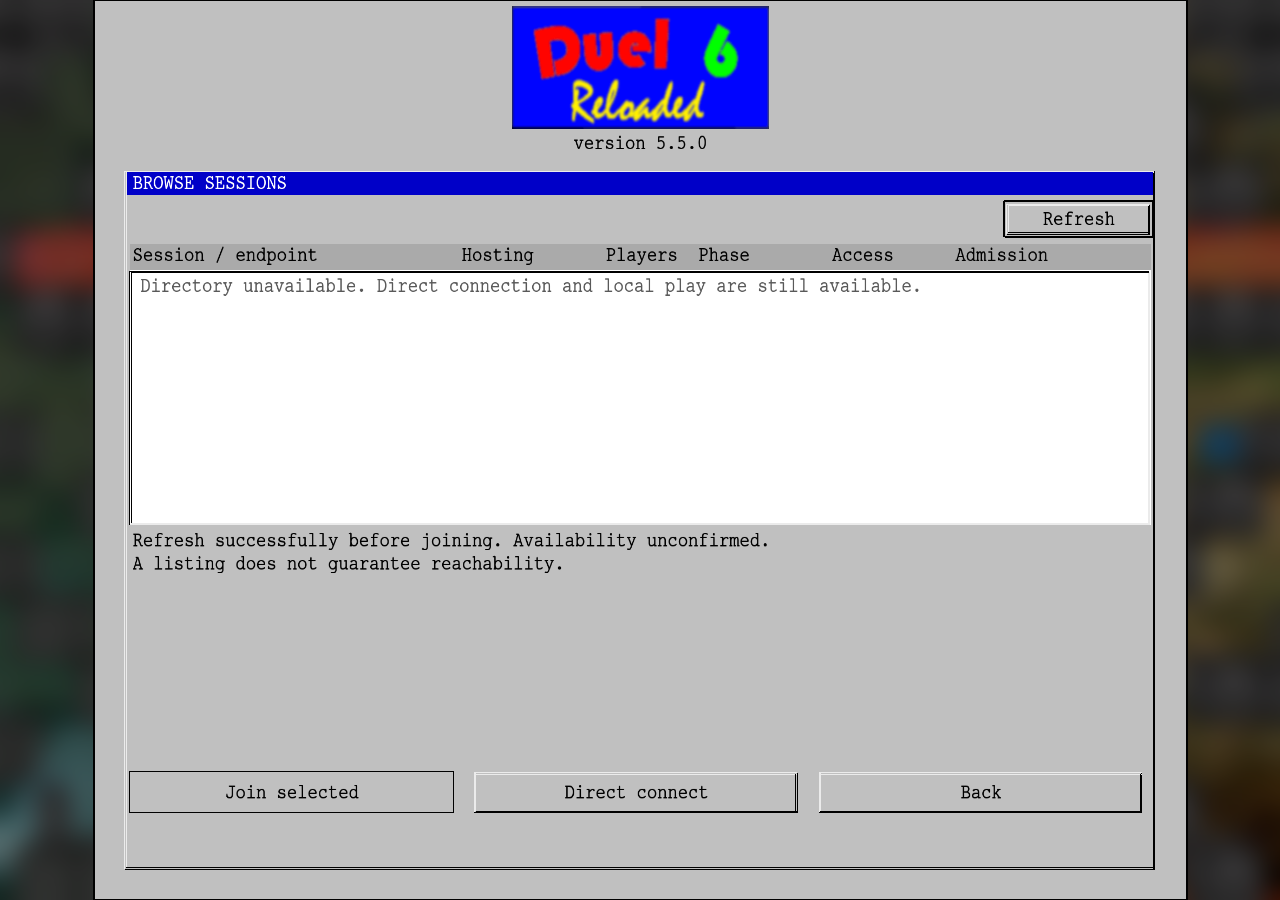
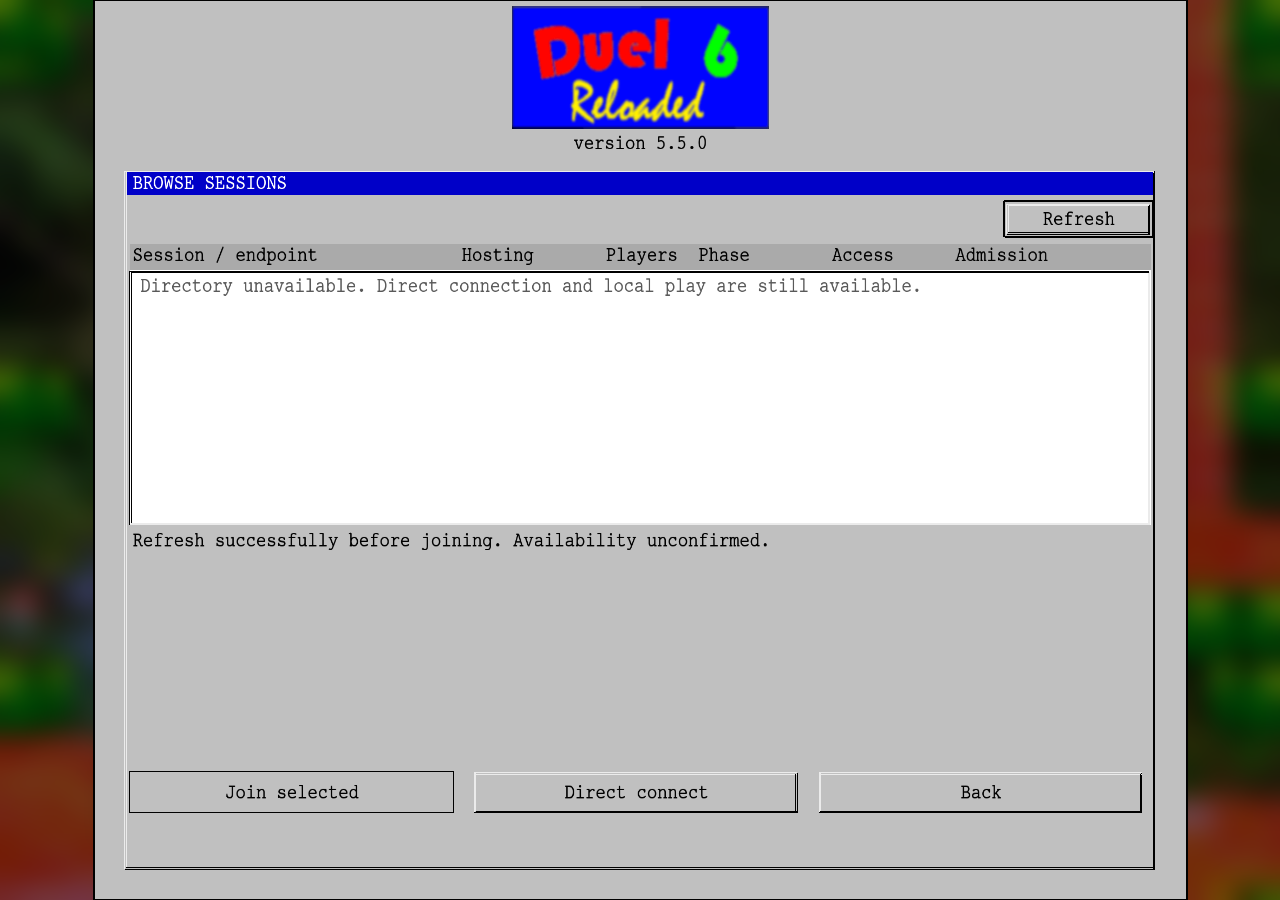
Refresh accepted browser copy-removal screenshots

diff --git a/docs/design/screenshots/README.md b/docs/design/screenshots/README.md
@@ -2,25 +2,47 @@
 
 ## NET-10 current copy-removal matrix
 
-**Current conformance: pending. Capture release: held until team declares functional closure of the frozen copy-removal candidate.** This three-row matrix owns current NET-10 results, NET-10-E empty, and NET-10-U unavailable coverage. Earlier artifacts and assessments below retain their original source/state scope; they do not establish the new copy requirement. All unaffected representatives and provenance remain unchanged.
+**Current scoped visual conformance: satisfied for all three supplied Linux originals. Capture release: completed after team-declared functional closure at `f994fa64b84558eb1e4cedc8283ab60aa6dbd22c`.** This three-row matrix owns current NET-10 results, NET-10-E empty, and NET-10-U unavailable coverage. Earlier artifacts and assessments below retain their original source/state scope; they do not establish the new copy requirement. All unaffected representatives and provenance remain unchanged.
 
-Fixed sources: [NET-10 specification](../screens/NET-10.md), especially UX-NET-10-005/046 and the retained context requirements, and [NET-10](../wireframes/NET-10/NET-10.svg), [NET-10-E](../wireframes/NET-10/NET-10-E.svg), and [NET-10-U](../wireframes/NET-10/NET-10-U.svg). Approved uncommitted changes are based on `400f92fa7f43c895216fdb0f8d9b94567b9fe6b1`. Developer must hash these normative paths before exact integration and affected implementation. Record the integrated candidate checkpoint before capture release. Only the sentence is removed from each SVG; geometry, `LAN-first.`, and all other copy remain fixed. No new layout, state, profile, behavior, or design-system requirement is added.
[1 lines of base64/hex data omitted]
 
-**Known preexisting variance — nonblocking for this copy-only scope:** At candidate `717ff3288b805fdd944c0b56e7c851d75cdc125b`, UX inspected `source/NetworkMenu.cpp`: the browser branch at lines 2740–2743 calls `drawBrowser()` and returns before the later `SetupScope` rendering; `drawBrowser()` at lines 2072–2153 contains no `LAN-first.` text. UX also inspected the existing `NET-10/NET-10-E.png`: it shows the old reachability sentence without `LAN-first.`. Its original hash and producer remain in the retained assessment below. Developer's static review reports that the sole production change deletes the disclaimer. The fixed specification and three SVGs still contain `LAN-first.`; this implementation/documentation mismatch is not conformance with that retained expectation. It predates the requested deletion and is unrelated and nonblocking under this bounded assignment. Do not introduce `LAN-first.`, move surrounding content, or change the fixed sources to resolve it during this capture. The row expectations below supersede the earlier matrix assertion that this text was already rendered and must remain visible; they do not amend or waive the normative requirement generally.
+**Known preexisting variance — nonblocking for this copy-only scope:** At candidate `717ff3288b805fdd944c0b56e7c851d75cdc125b`, UX inspected `source/NetworkMenu.cpp`: the browser branch at lines 2740–2743 calls `drawBrowser()` and returns before the later `SetupScope` rendering; `drawBrowser()` at lines 2072–2153 contains no `LAN-first.` text. UX also inspected the pre-removal `NET-10/NET-10-E.png`: it showed the old reachability sentence without `LAN-first.`. Its original hash and producer remain in the retained assessment below. Developer's static review reports that the sole production change deletes the disclaimer. The fixed specification and three SVGs still contain `LAN-first.`; this implementation/documentation mismatch is not conformance with that retained expectation. It predates the requested deletion and remains unrelated and nonblocking under this bounded assignment. All three assessed originals retain this absence. The row expectations below do not demand introducing absent copy and do not amend or waive the normative requirement generally.
 
-**Pre-freeze capture direction: go for NET-10, NET-10-E and NET-10-U after team-declared functional closure and capture release.** No additional source change or capture is needed to resolve the retention assertion. Assess the required sentence removal without replacement in all three rows and preserve the surrounding implemented presentation. Record the known variance in the final scoped assessment; do not claim full conformance with the `LAN-first.` expectation. Changed-copy criteria, existing state/setup requirements and evidence provenance remain mandatory. This direction is not final visual acceptance.
+**Visual gate: satisfied.** UX inspected the complete three-row set and supplied packet against the fixed sources, approved matrix and existing unified network styling. The exact sentence is absent without replacement in every original. Surrounding hierarchy, copy, table allocation, upper Refresh and single-row footer remain consistent with the baseline; no clipping, overlap, obscured task or substituted state was found. Acceptance is for the scoped deletion at the supplied Linux states/viewport, not full normative conformance with the recorded `LAN-first.` expectation.
 
 All three rows cover UX-NET-10-046 because the changed copy renders unconditionally in these materially distinct existing states. Reuse the existing representatives and setup scope, not an additional combination of unchanged labels. Profile `L` remains actual Linux x86-64 desktop, Docker Release GL4/Lua ON, shipped font/assets, standard keyboard/pointer input, software OpenGL/Xvfb and dummy audio. Use the existing 1280 × 900 full client and 850 × 700 logical canvas; record actual scale/origin and environment. No platform campaign or new supplement is required.
 
 | Screen / stable wireframe / state | Route and setup | Viewport / dependencies | Expected result | Canonical destination | Current conformance |
 |---|---|---|---|---|---|
-| NET-10 / NET-10 / NET-10-results | MENU-01 → F2 → Join → successful fresh single-page mixed results. Select an actual protected ongoing player-hosted Open session; include a genuinely completed Closed session and a ready-idle dedicated row. Reuse the existing results recipe and record actual identities. | L, 1280 × 900; task-isolated local directory fixture and owned candidate lifecycle records under the existing reproduction rules below. | Removed sentence absent without replacement; surrounding implemented copy and placement unchanged, subject to the recorded preexisting variance above. Six columns, full selected identity/endpoint, next-round and host-confirmation context, upper Refresh, single-row footer and eligible Join selected remain unchanged. No successful-load status or unnecessary paging. | `docs/design/screenshots/NET-10/NET-10.png` | Pending — replacement and assessment required |
-| NET-10 / NET-10-E / NET-10-empty | Same browser route → actual successful zero-row read; no selection; upper Refresh focused. | L, 1280 × 900; authorized task-isolated directory returning a valid empty page with no continuation. | Removed sentence absent without replacement; surrounding implemented copy and placement unchanged, subject to the recorded preexisting variance above. All six headings and complete inline empty description remain; successful no-selection reason stays blank; cached metadata/body input and paging stay hidden; Join selected stays disabled; footer unchanged. | `docs/design/screenshots/NET-10/NET-10-E.png` | Pending — replacement and assessment required |
-| NET-10 / NET-10-U / NET-10-unavailable | First obtain populated selected mixed results, then perform an actual failed browser refresh; retain upper Refresh focus. Record the original selected identity and disclosed failure mechanism without secrets. | L, 1280 × 900; same authorized task-isolated directory; browser-only failed-read route, such as a disclosed GET 503, without reconfiguring healthy publishers/backend. | Removed sentence absent without replacement; surrounding implemented copy and placement unchanged, subject to the recorded preexisting variance above. All six headings and complete inline unavailable description remain; cached rows/details stay hidden; necessary unavailable explanation and disabled Join remain; upper Refresh, single-row footer and independent Direct connect unchanged. | `docs/design/screenshots/NET-10/NET-10-U.png` | Pending — replacement and assessment required |
+| NET-10 / NET-10 / NET-10-results | MENU-01 → F2 → Join → successful fresh single-page mixed results. Select an actual protected ongoing player-hosted Open session; include a genuinely completed Closed session and a ready-idle dedicated row. Reuse the existing results recipe and record actual identities. | L, 1280 × 900; task-isolated local directory fixture and owned candidate lifecycle records under the existing reproduction rules below. | Removed sentence absent without replacement; surrounding implemented copy and placement unchanged, subject to the recorded preexisting variance above. Six columns, full selected identity/endpoint, next-round and host-confirmation context, upper Refresh, single-row footer and eligible Join selected remain unchanged. No successful-load status or unnecessary paging. | `docs/design/screenshots/NET-10/NET-10.png` | Accepted — scoped Linux state/viewport |
+| NET-10 / NET-10-E / NET-10-empty | Same browser route → actual successful zero-row read; no selection; upper Refresh focused. | L, 1280 × 900; authorized task-isolated directory returning a valid empty page with no continuation. | Removed sentence absent without replacement; surrounding implemented copy and placement unchanged, subject to the recorded preexisting variance above. All six headings and complete inline empty description remain; successful no-selection reason stays blank; cached metadata/body input and paging stay hidden; Join selected stays disabled; footer unchanged. | `docs/design/screenshots/NET-10/NET-10-E.png` | Accepted — scoped Linux state/viewport |
+| NET-10 / NET-10-U / NET-10-unavailable | First obtain populated selected mixed results, then perform an actual failed browser refresh; retain upper Refresh focus. Record the original selected identity and disclosed failure mechanism without secrets. | L, 1280 × 900; same authorized task-isolated directory; browser-only failed-read route, such as a disclosed GET 503, without reconfiguring healthy publishers/backend. | Removed sentence absent without replacement; surrounding implemented copy and placement unchanged, subject to the recorded preexisting variance above. All six headings and complete inline unavailable description remain; cached rows/details stay hidden; necessary unavailable explanation and disabled Join remain; upper Refresh, single-row footer and independent Direct connect unchanged. | `docs/design/screenshots/NET-10/NET-10-U.png` | Accepted — scoped Linux state/viewport |
 
 Developer owns fixture setup, capture and image replacement. The existing [local reproduction rules](#local-reproduction-without-an-external-backend) apply where relevant; no public service, production deployment or infrastructure change is authorized. Release these three rows together only after team-declared functional closure. Supply original lossless full-client PNGs without chrome, crop, resize, retouch, composition or injected UI state.
 
 For each row supply immutable candidate checkpoint/branch and presentation differences, capture time/state/route, actual setup, viewport/input profile, OS/architecture/renderer, runtime/assets identity, background, canvas transform, application identity, artifact path and SHA-256. Network provenance must include task namespace, backend/fixture candidate identity, stable endpoint/transport mapping, and actual scenario/session data. Do not reuse old environment identities as current observations or record secrets. Final UX assessment must inspect the completed three-row set against the fixed sources and edit this manifest only. Exact-hash integration without presentation-source changes requires no second assessment.
+
+### Assessed copy-removal originals and provenance
+
[1 lines of base64/hex data omitted]
+
+| Row / state | Actual reproduction inputs | Acquisition UTC | Canonical original / SHA-256 | Scoped assessment |
+|---|---|---|---|---|
[3 lines of base64/hex data omitted]
+
[3 lines of base64/hex data omitted]
+
+| Actual service / endpoint | Listing ID / session ID | Scenario setup |
+|---|---|---|
+| Protected ongoing player-hosted `172.17.0.3:28101` | `516a1114d5f583f74e9c3f462d5f2673` / `00000000000000009e92a25674dbff51` | Normal GUI OpenAda/K1: Arrows; Deathmatch, Rounds 99, Random level, network toggles On; protected all-interface Host → Ready → Start. Normal physics progressed beyond round one; actual fresh Started/Open 1/15. No round/tick sample is inferred from the browser. |
+| Protected completed player-hosted `172.17.0.3:28102` | `972e2d3a7abcb8df6ac66a54eb4174d4` / `0000000000000000e5cbfe38df60af21` | Normal GUI ClosedBea/K1: Arrows; Deathmatch, Rounds 3, Random level, network toggles On; protected Host → Ready → Start. All three rounds completed through normal physics; retained Completed/No winner summary, Duel03 Normal, Duel11 Normal, Duel15 Mirrored. Actual Phase Started / Admission Closed. |
+| Ready-idle dedicated `172.17.0.3:28103` | `6674940aaf74ffdf2d7037431be8c934` / `00000000000000001d10707ee965303c` | Frozen candidate dedicated transport listener, wildcard bind and advertised assigned endpoint, readiness socket ready; No password, prepared Idle 0/15/Open; no participant, controller or admission. |
+
+No row is rejected and no additional capture is required. Stills establish visible scoped presentation, not hidden input behavior, admission/security authority, lifecycle correctness, physical-controller operation or native-platform acceptance. The preexisting `LAN-first.` variance remains nonblocking only for this deletion. Developer reports owned sessions/processes and capture environment cleaned up; developer owns temporary evidence cleanup after final consumers. Integrate exactly the assessed image hashes and this manifest without presentation-source changes; developer computes the changed manifest hash before integration. No second assessment is required for exact-hash integration. Product acceptance and PR authorization remain separate.
 
 ## Unified connection current capture matrix
 
